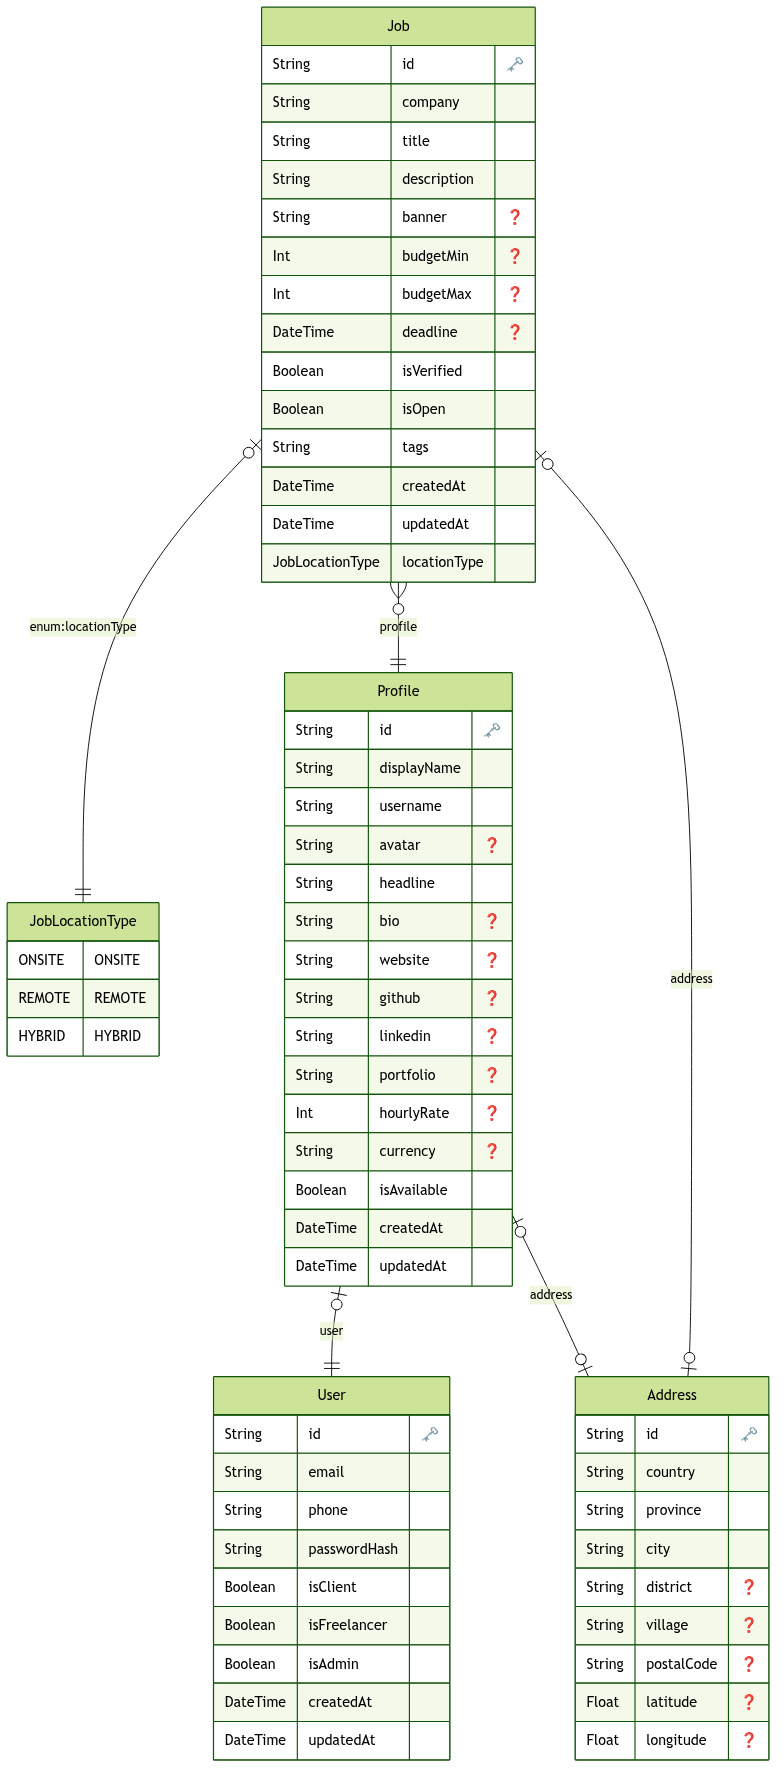
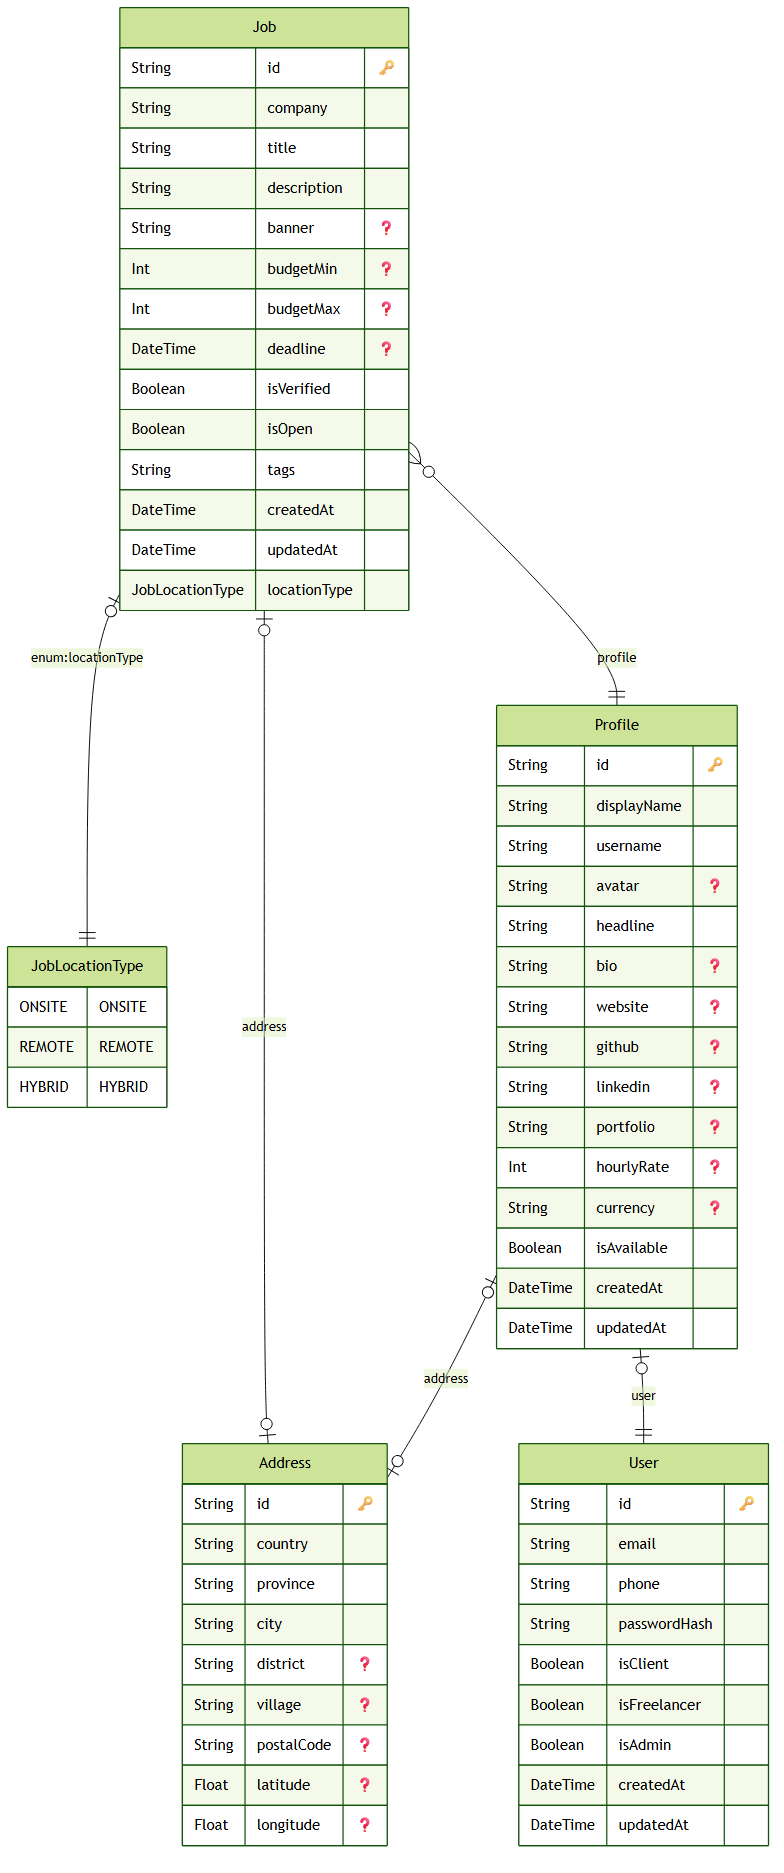
feat:search bar and back buttons

Changed region(s): [[0.0306, 0.0, 1.0, 0.9854], [0.0, 0.4003, 0.2143, 0.5851], [0.6735, 0.2464, 0.7041, 0.308]]

diff --git a/src/app/jobs/page.tsx b/src/app/jobs/page.tsx
@@ -3,51 +3,75 @@
 import JobCard from "@/app/components/jobCard";
 import { getJobs } from "@/services/jobs.service";
 import { useEffect, useState } from "react";
-import { Job } from "@/generated/prisma/client";
 import { faker } from "@faker-js/faker";
 import { getCompanyInitials } from "../utils/company";
 import { formatSalaryRange } from "../utils/salary";
 import { Loading } from "../components/loading";
+import { JobListItem } from "@/models/job";
+import { useSearchParams } from "next/navigation";
+import { useRouter } from "next/navigation";
+import { RiArrowLeftLine } from "@remixicon/react";
 
 export default function JobsPage() {
-  const [jobs, setJobs] = useState<Job[]>([]);
+  const searchParams = useSearchParams();
+  const search = searchParams.get("search") || "";
+  const province = searchParams.get("province") || "";
+  const city = searchParams.get("city") || "";
+  const location = searchParams.get("location") || "";
+  const router = useRouter();
+
+  const [jobs, setJobs] = useState<JobListItem[]>([]);
   const [loading, setLoading] = useState(true);
 
-  // useEffect(() => {
-  //   async function load() {
-  //     // ini ku limit biar ga lag
-  //     // mungkin nanti bisa ditambahin page
-  //     const { data } = await getJobs({
-  //       limit: 12,
-  //     });
-
-  //     setJobs(data);
-  //   }
-
-  //   load();
-  // }, []);
-
   useEffect(() => {
+    let isActive = true;
+
     async function loadJobs() {
+      setLoading(true);
+
       try {
         const { data } = await getJobs({
+          search: search || undefined,
+          province: province || undefined,
+          city: city || undefined,
+          location: (location as "ONSITE" | "REMOTE" | "HYBRID") || undefined,
           limit: 12,
         });
-        setJobs(data);
+
+        if (isActive) {
+          setJobs(data);
+        }
       } finally {
-        setLoading(false);
+        if (isActive) {
+          setLoading(false);
+        }
       }
     }
 
-    if (loading) loadJobs();
-  })
+    loadJobs();
+
+    return () => {
+      isActive = false;
+    };
+  }, [search, province, city, location]);
 
   if (loading) {
-    return (<Loading />);
+    return <Loading />;
   }
 
   return (
     <div className="mx-auto py-10 flex-row w-max">
+      {/* BUTTON BACK */}
+      <button
+        type="button"
+        onClick={() => router.back()}
+        className="flex items-center font-semibold text-lg gap-1 hover:underline cursor-pointer"
+      >
+        <RiArrowLeftLine size={20} />
+        Kembali
+      </button>
+
+      {/* CONTENT */}
       <div className="mb-8 text-center">
         <h1 className="text-3xl font-bold text-gray-900">
           {jobs.length} Lowongan Tersedia
@@ -57,6 +81,7 @@ export default function JobsPage() {
         </p>
       </div>
 
+      {/* JOB CARD */}
       <div className="grid grid-cols-1 gap-6 md:grid-cols-2 xl:grid-cols-3 flex-wrap">
         {jobs.map((job) => (
           <JobCard
@@ -66,6 +91,11 @@ export default function JobsPage() {
             logoColor={faker.color.rgb()}
             title={job.title}
             company={job.company}
+            province={
+              job.address?.province
+                ? `${job.address.city}, ${job.address.province}`
+                : job.address?.city || "Lokasi tidak tersedia"
+            }
             tags={job.tags}
             salaryRange={formatSalaryRange(job.budgetMin, job.budgetMax)}
             verified={job.isVerified}

diff --git a/src/app/profile/page.tsx b/src/app/profile/page.tsx
@@ -4,6 +4,7 @@ import React, { useEffect, useState } from "react";
 import { RiEditLine } from "@remixicon/react";
 import { useRouter } from "next/navigation";
 import { logout, me } from "@/services/auth.service";
+import { RiArrowLeftLine } from "@remixicon/react";
 
 export default function ProfilePage() {
   const router = useRouter();
@@ -42,9 +43,9 @@ export default function ProfilePage() {
 
   const handleLogoutButton = async () => {
     await logout();
-    router.push("/login")
+    router.push("/login");
     router.refresh();
-  }
+  };
 
   const getInitials = (name: string) => {
     if (!name) return "UB";
@@ -69,6 +70,15 @@ export default function ProfilePage() {
   return (
     <div className="min-h-screen bg-[#FAF8F0] px-6 py-10">
       <div className="max-w-4xl mx-auto space-y-6">
+        {/* BUTTON BACK */}
+        <button
+          type="button"
+          onClick={() => router.back()}
+          className="flex items-center font-semibold text-lg gap-1 hover:underline cursor-pointer"
+        >
+          <RiArrowLeftLine size={20} />
+          Kembali
+        </button>
         <div className="bg-white rounded-2xl p-6 shadow-sm border border-gray-100 flex items-center justify-between">
           <div className="flex items-center gap-5">
             <div className="w-20 h-20 rounded-full bg-[#D8E6D3] text-[#386641] flex items-center justify-center font-bold text-2xl border border-[#386641]/20">
@@ -80,20 +90,16 @@ export default function ProfilePage() {
                 {userData.name || "Nama Pengguna"}
               </h1>
 
-              <p className="text-sm text-gray-500">
-                {userData.title}
-              </p>
+              <p className="text-md text-gray-500">{userData.title}</p>
 
-              <p className="text-xs text-gray-400 mt-1">
+              <p className="text-sm text-gray-400 mt-1">
                 📍 {userData.location} • ✉️ {userData.email}
               </p>
             </div>
           </div>
 
           <button
-            onClick={() =>
-              alert("Fitur Edit Profil bisa kamu buka di sini!")
-            }
+            onClick={() => alert("Fitur Edit Profil bisa kamu buka di sini!")}
             className="flex items-center gap-2 border border-gray-300 rounded-lg px-4 py-2 text-xs font-semibold text-gray-700 hover:bg-gray-50 transition cursor-pointer"
           >
             <RiEditLine size={16} />
@@ -103,7 +109,7 @@ export default function ProfilePage() {
 
         <div className="grid grid-cols-1 md:grid-cols-3 gap-6">
           <div className="bg-white rounded-2xl p-5 shadow-sm border border-gray-100">
-            <h3 className="text-sm font-bold text-gray-800 mb-3">
+            <h3 className="text-lg font-bold text-gray-800 mb-3">
               Keahlian (Skills)
             </h3>
 
@@ -119,27 +125,27 @@ export default function ProfilePage() {
                 ))}
               </div>
             ) : (
-              <p className="text-xs text-gray-400 italic">
+              <p className="text-md text-gray-400 italic">
                 Belum ada keahlian ditambahkan.
               </p>
             )}
           </div>
 
           <div className="md:col-span-2 bg-white rounded-2xl p-5 shadow-sm border border-gray-100">
-            <h3 className="text-sm font-bold text-gray-800 mb-3">
+            <h3 className="text-lg font-bold text-gray-800 mb-3">
               Riwayat Lamaran Saya
             </h3>
 
-            <p className="text-xs text-gray-400 italic">
+            <p className="text-md text-gray-400 italic">
               Belum ada lamaran kerja.
             </p>
           </div>
         </div>
-        <button 
-          className="cursor-pointer bg-red-500 w-full h-92 rounded-2xl text-white text-3xl font-black shadow-sm hover:scale-101 transition-all"
+        <button
+          className="cursor-pointer bg-red-500 w-30 h-10 rounded-xl text-white text-xl font-bold shadow-sm hover:scale-101 transition-all"
           onClick={handleLogoutButton}
         >
-          LOGOT
+          LOGOUT
         </button>
       </div>
     </div>

diff --git a/src/app/components/jobCard.tsx b/src/app/components/jobCard.tsx
@@ -1,4 +1,8 @@
-import { RiBookmarkLine, RiVerifiedBadgeFill } from "@remixicon/react";
+import {
+  RiBookmarkLine,
+  RiVerifiedBadgeFill,
+  RiMapPinLine,
+} from "@remixicon/react";
 
 type JobCardProps = {
   id: string;
@@ -6,6 +10,7 @@ type JobCardProps = {
   logoColor: string;
   title: string;
   company: string;
+  province: string;
   tags: string[];
   salaryRange: string;
   verified?: boolean;
@@ -16,14 +21,13 @@ export default function JobCard({
   logoColor,
   title,
   company,
+  province,
   tags,
   salaryRange,
   verified = true,
 }: JobCardProps) {
   return (
-    <div
-      className="bg-white rounded-xl p-5 w-auto md:w-90 shadow-sm border border-gray-100 flex flex-col gap-3 transition-all duration-300 ease-in-out hover:-translate-y-1 hover:scale-103 cursor-pointer"
-    >
+    <div className="bg-white rounded-xl p-5 w-auto md:w-90 shadow-sm border border-gray-100 flex flex-col gap-3 transition-all duration-300 ease-in-out hover:-translate-y-1 hover:scale-103 cursor-pointer">
       {/* HEADER */}
       <div className="flex items-start justify-between">
         <div
@@ -45,6 +49,12 @@ export default function JobCard({
       <div>
         <h3 className="font-semibold text-gray-900">{title}</h3>
         <p className="text-sm text-gray-500">{company}</p>
+      </div>
+
+      {/* LOCATION (PROVINCE) */}
+      <div className="flex items-center gap-1.5 text-gray-600">
+        <RiMapPinLine size={16} className="text-gray-400 shrink-0" />
+        <p className="text-sm font-medium text-gray-700">{province}</p>
       </div>
 
       {/* TAGS */}
@@ -71,7 +81,7 @@ export default function JobCard({
         <div className="flex items-center gap-2">
           <button
             type="button"
-            className="h-9 w-9 flex items-center justify-center rounded-lg border border-gray-200 hover:bg-gray-50"
+            className="h-9 w-9 flex items-center justify-center rounded-lg border border-gray-200 hover:bg-gray-50 transition-colors"
           >
             <RiBookmarkLine size={16} className="text-gray-500" />
           </button>

diff --git a/src/models/job.ts b/src/models/job.ts
@@ -1,5 +1,12 @@
 import { Job } from "@/generated/prisma/client";
 
+export type JobListItem = Job & {
+  address?: {
+    city: string | null;
+    province: string | null;
+  } | null;
+};
+
 export interface GetJobsParams {
   /** Page number for pagination (starts from 1). */
   page?: number;
@@ -32,9 +39,8 @@ export interface GetJobsParams {
   sort?: "newest" | "oldest" | "budget";
 }
 
-
 export interface GetJobsResponse {
-  data: Job[];
+  data: JobListItem[];
 
   pagination: {
     page: number;

diff --git a/src/app/page.tsx b/src/app/page.tsx
@@ -4,10 +4,10 @@ import { useState, useRef, useEffect } from "react";
 import { useRouter } from "next/navigation";
 import "./page.css";
 import JobCard from "@/app/components/jobCard";
-import { Job } from "@/generated/prisma/client";
 import { getJobs } from "@/services/jobs.service";
 import { getCompanyInitials } from "./utils/company";
 import { formatSalaryRange } from "./utils/salary";
+import { JobListItem } from "@/models/job";
 import { faker } from "@faker-js/faker";
 import { RiSearchLine, RiArrowDropDownFill } from "@remixicon/react";
 import { PROVINCES } from "@/lib/constant";
@@ -42,7 +42,7 @@ export default function Home() {
     router.push(`/jobs?${params.toString()}`);
   };
 
-  const [featuredJobs, setFeaturedJobs] = useState<Job[]>([]);
+  const [featuredJobs, setFeaturedJobs] = useState<JobListItem[]>([]);
 
   useEffect(() => {
     async function load() {
@@ -163,6 +163,11 @@ export default function Home() {
                 logoColor={faker.color.rgb()}
                 title={job.title}
                 company={job.company}
+                province={
+                  job.address?.province
+                    ? `${job.address.city}, ${job.address.province}`
+                    : job.address?.city || "Lokasi tidak tersedia"
+                }
                 tags={job.tags}
                 salaryRange={formatSalaryRange(job.budgetMin, job.budgetMax)}
                 verified={job.isVerified}

diff --git a/src/app/components/navbar.tsx b/src/app/components/navbar.tsx
@@ -27,7 +27,7 @@ export default function Navbar() {
     async function loadUser() {
       try {
         const data = await me();
-        const userData = await getUser(data.user.id)
+        const userData = await getUser(data.user.id);
         setUser(userData);
       } catch {
         setUser(null);
@@ -39,7 +39,6 @@ export default function Navbar() {
 
   const navLinks = [
     { href: "/", label: "Beranda" },
-    { href: "/profile", label: "Profil" },
     { href: "/jobs", label: "Lowongan" },
     { href: "/cv-generator", label: "CV Generator" },
     { href: "#", label: "Panduan" },

diff --git a/src/lib/constant.ts b/src/lib/constant.ts
@@ -1,5 +1,5 @@
 export const PROVINCES = [
-  "Indiana",
+  "Ohio",
   "Aceh",
   "Sumatera Utara",
   "Sumatera Barat",